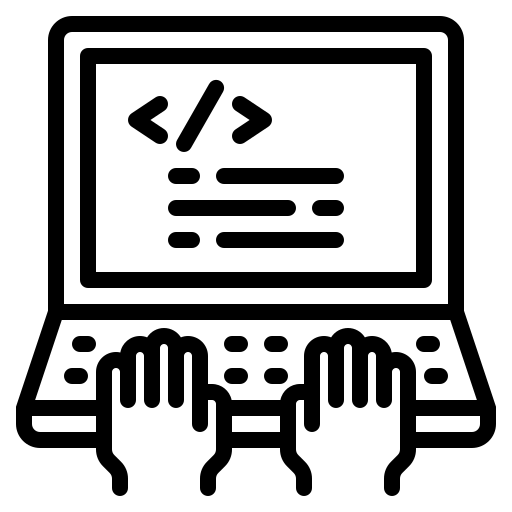
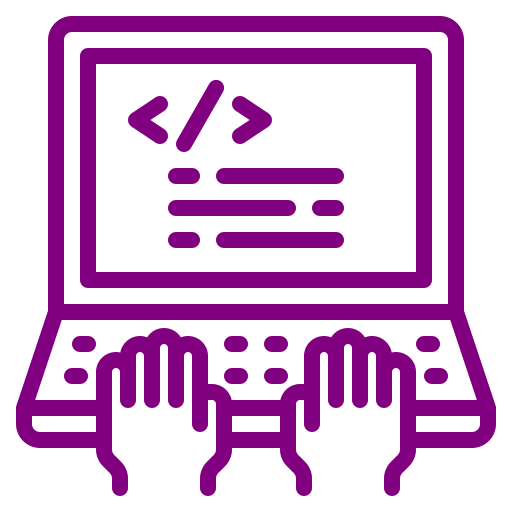
Cambiando colores de los spans y de las lineas

diff --git a/src/index.html b/src/index.html
@@ -7,7 +7,7 @@
   <link rel="icon" type="image/x-icon" href="assets/letra-r.png">
   <link rel="preconnect" href="https://fonts.googleapis.com">
   <link rel="preconnect" href="https://fonts.gstatic.com" crossorigin>
-  <link href="https://fonts.googleapis.com/css2?family=Ysabeau:wght@600&display=swap" rel="stylesheet">
+  <link href="https://fonts.googleapis.com/css2?family=Secular+One&display=swap" rel="stylesheet">
 </head>
 <body>
   <app-root></app-root>

diff --git a/src/app/components/contacto/contacto.component.css b/src/app/components/contacto/contacto.component.css
@@ -9,14 +9,14 @@ h1{
   font-size: 30px;
 }
 .linea{
-  border-top: 3px solid purple;
+  border-top: 3px solid #c71585;
   height: 2px;
   max-width: 300px;
   padding: 0;
   margin: 50px auto 0 auto;
 }
 .lineaAbajo{
-  border-top: 3px solid purple;
+  border-top: 3px solid #c71585;
   height: 2px;
   width: 100%;
   padding: 10px;
@@ -40,5 +40,5 @@ h1{
   }
 }
 span{
-  color: rgb(151, 19, 151);
+  color: #c71585;
 }

diff --git a/src/app/components/habilidades/habilidades.component.css b/src/app/components/habilidades/habilidades.component.css
@@ -16,17 +16,17 @@ p{
   padding: auto;
 }
 .linea{
-  border-top: 3px solid purple;
+  border-top: 3px solid #c71585;
   height: 2px;
   max-width: 300px;
   padding: 0;
   margin: 50px auto 0 auto;
 }
 span{
-  color: rgb(151, 19, 151);
+  color: #c71585;
 }
 .progress-bar{
-  background-color: purple;
+  background-color: #800080;
 }
 .progress{
   background-color: #ea80fc;

diff --git a/src/styles.css b/src/styles.css
@@ -7,7 +7,8 @@ html,body {
   height: 100%;
   display: block;
   overflow-x: hidden;
-  font-family: 'Ysabeau', sans-serif;  color: black;
+  font-family: 'Secular One', sans-serif;
+  color: #800080;
   background-color: #eeeeee;
   font-size: large;
 }

diff --git a/src/app/components/lenguajes/lenguajes.component.css b/src/app/components/lenguajes/lenguajes.component.css
@@ -20,12 +20,12 @@ h1{
 }
 
 .linea{
-  border-top: 3px solid purple;
+  border-top: 3px solid #c71585;
   height: 2px;
   max-width: 300px;
   padding: 0;
   margin: 60px auto 0 auto;
 }
 span{
-  color: rgb(151, 19, 151);
+  color: #c71585;
 }

diff --git a/src/app/components/intro/intro.component.css b/src/app/components/intro/intro.component.css
@@ -28,7 +28,7 @@ div{
   }
 }
 .title{
-  color: rgb(151, 19, 151);
+  color: #c71585;
 }
 h1{
   font-size: 30px;
